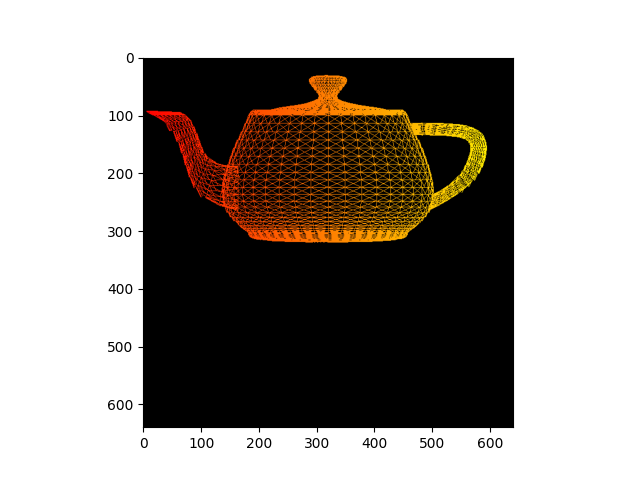
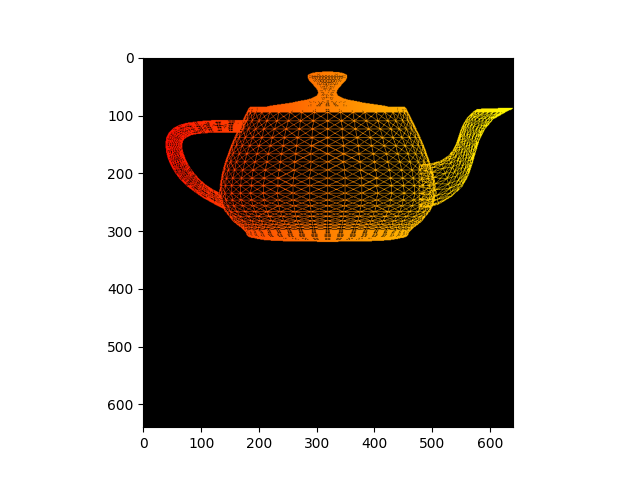
Put in finishing touches

Changed region(s): [[0.2188, 0.125, 0.8125, 0.5312]]

diff --git a/hw2_grigorenko_pavel_09-132.py b/hw2_grigorenko_pavel_09-132.py
@@ -107,15 +107,12 @@ def ScalePoints(Scale):
     for i in pointList:
         X=np.matrix([[i.GetX()],[i.GetY()],[1]])
         A=np.matrix([[Scale,0,0],[0,Scale,0],[0,0,1]])
-        T=np.matrix([[1,0,screenWidth/2],[0,1,screenWidth/2],[0,0,1]])
-        F=np.matrix([[-1,0,0],[0,1,0],[0,0,1]])
+        T=np.matrix([[1,0,screenWidth/2-1],[0,1,screenWidth/2-1],[0,0,1]])
         R=np.matrix([[math.cos(math.radians(90)),-1*math.sin(math.radians(90)),0],[math.sin(math.radians(90)),math.cos(math.radians(90)),0],[0,0,1]])
         scaledX=np.matmul(A,X)
-        flippedX=np.matmul(F,scaledX)
-        rotatedX=np.matmul(R,flippedX)
+        rotatedX=np.matmul(R,scaledX)
         translatedX=np.matmul(T,rotatedX)
         color=[255,int(translatedX[1][0]/screenWidth*255),0]
-        print(color)
         image[int(translatedX[0][0]), int(translatedX[1][0])] = color
         transformedPointList.append(point(translatedX[0][0],translatedX[1][0],i.GetZ))
 
@@ -130,9 +127,9 @@ def BresenhamLineLow(x0,y0,x1,y1):
     D = 2 * dy - dx
     y = y0
 
-    for j in range(int(x0), int(x1)):
+    for j in range(int(x0), int(x1)+1):
         color = [255, int(y / screenWidth * 255), 0]
-        image[int(j), int(y)] = color
+        image[math.ceil(j), math.ceil(y)] = color
         if D > 0:
             y = y + yi
             D = D - 2 * dx
@@ -148,7 +145,7 @@ def BresenhamLineHigh(x0,y0,x1,y1):
     D = 2 * dx - dy
     x = x0
 
-    for j in range(int(y0), int(y1)):
+    for j in range(int(y0), int(y1)+1):
         color = [255, int(j / screenWidth * 255), 0]
         image[int(x), int(j)] = color
         if D > 0:
@@ -168,12 +165,48 @@ def BresenhamLineUniversal(x0,y0,x1,y1):
         else:
             BresenhamLineHigh(x0, y0, x1, y1)
 
+def BresenhamAlt(x0,y0,x1,y1):
+    x0 = int(x0)
+    y0 = int(y0)
+    x1 = int(x1)
+    y1 = int(y1)
+
+    dx=abs(x1-x0)
+    if x0<x1:
+        sx=1
+    else:
+        sx=-1
+    dy=-abs(y1-y0)
+    if y0<y1:
+        sy=1
+    else:
+        sy=-1
+    error=dx+dy
+    while True:
+        color=[255,int(y0/screenWidth*255),0]
+        image[int(x0),int(y0)]=color
+        if x0==x1 and y0==y1:
+            break
+        e2 = 2 * error
+        if e2 >= dy:
+            if x0 == x1: break
+            error = error + dy
+            x0 = x0 + sx
+        if e2 <= dx:
+            if y0 == y1: break
+            error = error + dx
+            y0 = y0 + sy
+
+
 
 def BresenhamLineAlgorithm():
     for i in triList:
-        BresenhamLineUniversal(i.point1.GetX(),i.point1.GetY(),i.point2.GetX(),i.point2.GetY())
-        BresenhamLineUniversal(i.point2.GetX(),i.point2.GetY(),i.point3.GetX(),i.point3.GetY())
-        BresenhamLineUniversal(i.point3.GetX(),i.point3.GetY(),i.point1.GetX(),i.point1.GetY())
+        # BresenhamLineUniversal(i.point1.GetX(),i.point1.GetY(),i.point2.GetX(),i.point2.GetY())
+        # BresenhamLineUniversal(i.point2.GetX(),i.point2.GetY(),i.point3.GetX(),i.point3.GetY())
+        # BresenhamLineUniversal(i.point3.GetX(),i.point3.GetY(),i.point1.GetX(),i.point1.GetY())
+        BresenhamAlt(i.point1.GetX(), i.point1.GetY(), i.point2.GetX(), i.point2.GetY())
+        BresenhamAlt(i.point2.GetX(), i.point2.GetY(), i.point3.GetX(), i.point3.GetY())
+        BresenhamAlt(i.point3.GetX(), i.point3.GetY(), i.point1.GetX(), i.point1.GetY())
 
 
 def GetMaxCoordinates():
@@ -193,16 +226,14 @@ f= open("teapot.obj","r")
 text = ReadObjFile(f)
 ParsePoints(text)
 
-Scale=screenWidth/math.ceil(GetMaxCoordinates()-GetMinCoords())
-
-yellow=[255,255,0]
+Scale=screenWidth/GetMaxCoordinates()/2
 
 ScalePoints(Scale)
 ParseTris(text)
 BresenhamLineAlgorithm()
 
 im=plt.imshow(image.astype('uint8'))
-PrintTriList()
+
 
 plt.savefig("teapot.png")
 
